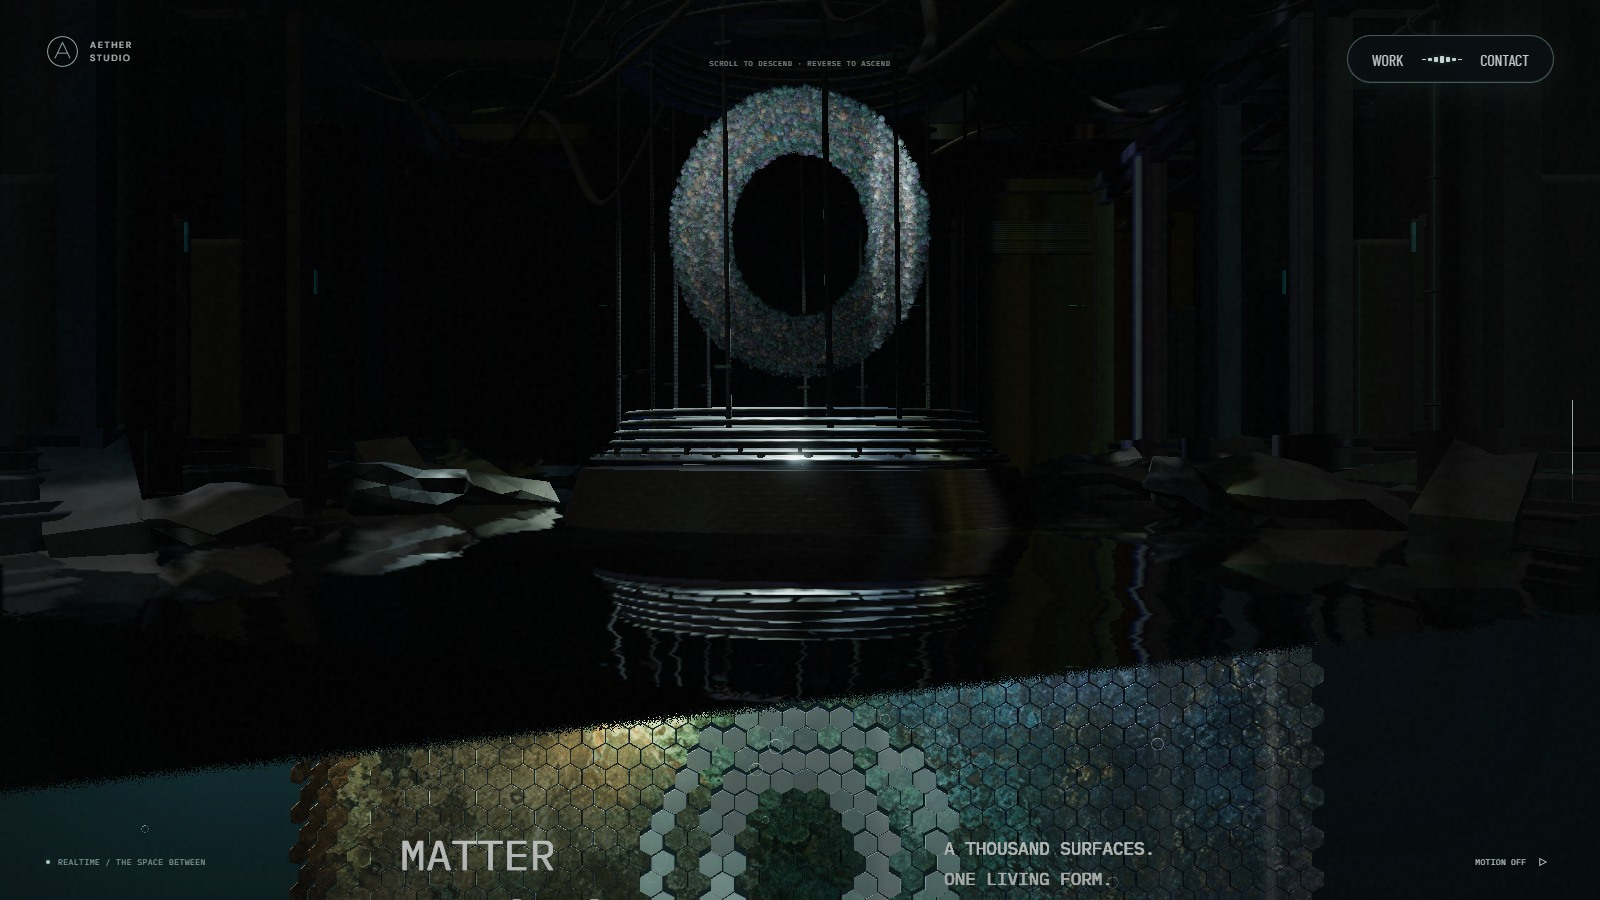
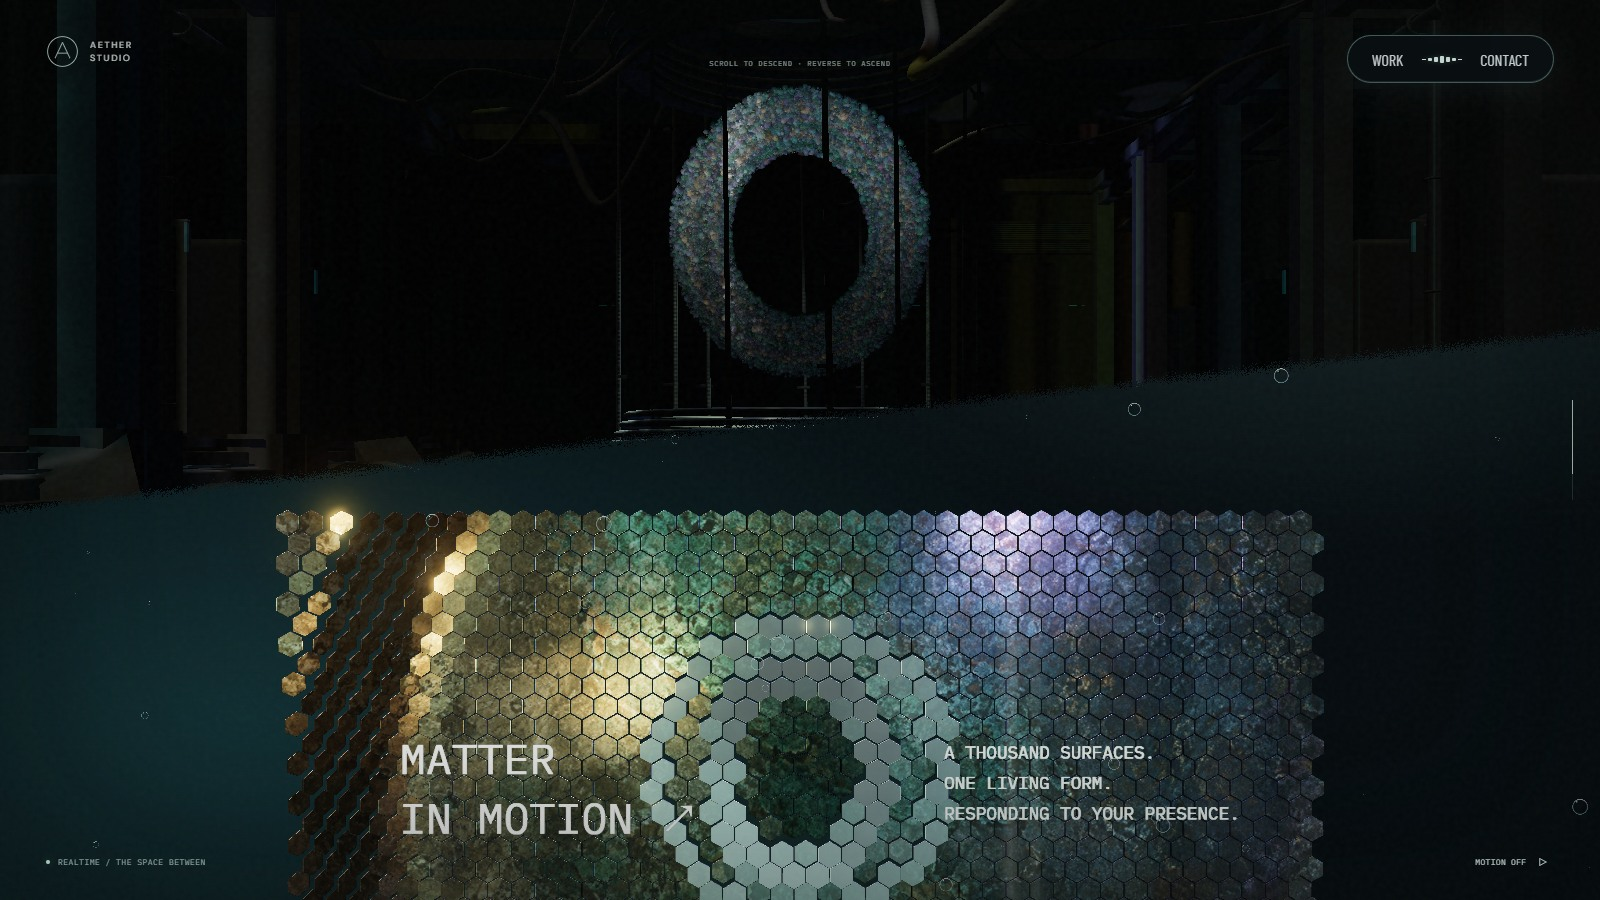
fix: mask the water before the shared surface crossing

diff --git a/src/ScaleStage.ts b/src/ScaleStage.ts
@@ -2,7 +2,7 @@ import { sampleJourney } from './Journey'
 import { REACTOR } from './Reactor'
 
 export const SCALE_CEILING_Y = REACTOR.worldY - 3.7 * REACTOR.heightScale
-export const SCALE_PANEL_Y = SCALE_CEILING_Y - 3.6
+export const SCALE_PANEL_Y = SCALE_CEILING_Y - 2.65
 
 /** A fixed panel and ceiling share the same descending camera. */
 export function sampleScaleOffset(progress: number) {
@@ -11,8 +11,12 @@ export function sampleScaleOffset(progress: number) {
 
 /** Linear camera-height passage, without a second ease at each curtain. */
 export function sampleScaleCurtain(progress: number, lower: boolean) {
-  const start = sampleJourney(lower ? .855 : .715).height
-  const end = sampleJourney(lower ? .925 : .785).height
+  // The water is entirely below the horizontal horizon. Its outgoing band
+  // must cover that half (including the diagonal fringe) before water fades
+  // within 0.30 world units of the eye. The upper room can finish sliding out.
+  if (!lower) return Math.max(-.25, Math.min(1.25, .8 + (SCALE_CEILING_Y - sampleJourney(progress).height) * .4))
+  const start = sampleJourney(.855).height
+  const end = sampleJourney(.925).height
   const travel = Math.max(0, Math.min(1, (sampleJourney(progress).height - start) / (end - start)))
-  return lower ? -.35 + travel * 1.7 : -.25 + travel * 1.5
+  return -.35 + travel * 1.7
 }

diff --git a/tests/scene-boundary-placement.spec.ts b/tests/scene-boundary-placement.spec.ts
@@ -34,14 +34,20 @@ test('@interaction upright curved films clear the actual forest floor and ceilin
   } finally {forest.dispose();shafts.dispose();texture.dispose()}
 })
 
-test('@interaction the outgoing chamber camera stays above water until its entire curtain is closed', () => {
-  const surfaceY=REACTOR.worldY-3.7*REACTOR.heightScale
+test('@interaction the water is fully masked before its camera crossing without stopping the chamber descent', () => {
+  const surfaceY=REACTOR.worldY-3.635*REACTOR.heightScale
   for(let i=0;i<=800;i++) {
     const p=.70+i*.0001,j=sampleJourney(p),layers=sampleLayers(p)
     if(!curtainHasCoverage(layers.monitorExit,layers.deviceExit))continue
     for(const mobile of [false,true]) {
       const cameraY=j.height+Math.sin(j.elevation)*(j.radius+(mobile?4.8:0))
-      expect(cameraY-surfaceY,`water crossing at ${p}`).toBeGreaterThan(.30)
+      if(cameraY-surfaceY<=.30) {
+        // A level camera projects all water below the horizon; include the
+        // full screen width so the slanted edge and its conservative margin
+        // must clear every water pixel before its near-eye fade starts.
+        expect(j.elevation).toBe(0)
+        expect(curtainHasCoverage(layers.monitorExit,layers.deviceExit,0,1,0,.5),`water crossing at ${p}`).toBe(false)
+      }
     }
   }
 })

diff --git a/tests/scene-framing.spec.ts b/tests/scene-framing.spec.ts
@@ -19,10 +19,12 @@ test('@interaction panel approaches the incoming cut and holds its front view un
     expect(y).toBeGreaterThan(lastY); lastY = y
     const upper = new THREE.Vector3(0, j.height + y + 2.65, -.65).project(camera)
     const cut = sampleLayers(p).deviceExit
-    // Once a useful part of the incoming band is visible, its panel is already
-    // within 15% of screen height of that edge, never below a long empty room.
-    if (p >= .739 && p <= .755) expect(cut - (upper.y + 1) / 2).toBeLessThan(.15)
-    if (p >= .795 && p <= .825) expect(Math.abs(y)).toBeLessThan(1.2)
+    // The panel reaches the initial incoming band. Before the water crossing
+    // the wrapper must cover the entire lower half, including its slanted rim;
+    // at that point the panel already fills at least the lower half as well.
+    if (cut > .1 && cut < .55) expect(cut - (upper.y + 1) / 2).toBeLessThan(.15)
+    if (cut >= .55) expect((upper.y + 1) / 2).toBeGreaterThan(.40)
+    if (p >= .785 && p <= .815) expect(Math.abs(y)).toBeLessThan(1.2)
     expect(j.height + y).toBeCloseTo(SCALE_PANEL_Y, 8)
     expect(SCALE_CEILING_Y).toBeCloseTo(-43.212, 8)
   }

diff --git a/tests/project-transition.spec.ts b/tests/project-transition.spec.ts
@@ -3,6 +3,11 @@ import { expect, test } from '@playwright/test'
 
 test('project film pauses for hidden tabs and reduced motion, then returns focus', async ({ page }) => {
   await page.goto('/#work')
+  // This test exercises project media, after the software renderer's first
+  // shader preparation has finished; startup interactions are covered apart.
+  await expect(page.locator('.scene-canvas')).toHaveAttribute('data-render-state', 'ready', {
+    timeout: process.env.CI ? 30_000 : 10_000,
+  })
   const card = page.getByRole('button', { name: 'Explore Liminal', exact: true })
   await card.click()
   const film = page.locator('.detail-film')

diff --git a/tests/interaction.spec.ts b/tests/interaction.spec.ts
@@ -18,7 +18,11 @@ declare global {
 
 async function readyScene(page: Page) {
   await page.goto('/')
-  await expect(page.locator('.scene-canvas')).toHaveAttribute('data-render-state', 'ready')
+  // CI compiles all warm-up shader variants with software WebGL before the
+  // first frame. Give that one-time preparation its own bounded wait.
+  await expect(page.locator('.scene-canvas')).toHaveAttribute('data-render-state', 'ready', {
+    timeout: process.env.CI ? 30_000 : 10_000,
+  })
 }
 
 async function settledScene(page: Page) {

diff --git a/docs/verification/forest-surface-motion.md b/docs/verification/forest-surface-motion.md
@@ -8,7 +8,7 @@
 
 문구의 모든 큰 글자 윤곽에서 왼쪽 아래로 직선 빛을 낸다. 추가 요청에 따라 두 글자 폭으로 조정했던 길이를 다시 2.5배 늘리고 밝기를 낮췄다. 체인은 나선 경로 이동에 접선 축 회전을 더했다. 기존 65ms 본 컬럼 추종 지연과 고리의 교차 결합을 유지한다. AT의 실제 스크롤 화면에서 고리 방향 변화는 확인했지만 내부 회전축·각도를 측정한 것은 아니다. 여기서는 해당 인상을 재현하는 자체 동작으로 구현했다.
 
-스케일 패널과 물결 천장은 고정된 월드 높이를 사용한다. 천장 높이는 리액터 바닥과 같은 `-43.212`이며, 경계선은 카메라 높이에 따라 진행한다. 패널 정면 구간은 100svh, 앞뒤 전환은 각각 119svh로 분리해 전환까지 한 화면에 압축되던 급가속을 없앴다. 리액터 물 반사에서는 다음 장면의 패널과 천장을 제외한다.
+스케일 패널과 물결 천장은 고정된 월드 높이를 사용한다. 천장 높이는 리액터 바닥과 같은 `-43.212`이며, 경계선은 카메라 높이에 따라 진행한다. 카메라가 수면에 가까워지기 전에 경계선이 수면 전체를 가리도록 기준 높이를 맞췄다. 위쪽 리액터 챔버는 계속 화면 밖으로 이동한다. 패널 정면 구간은 100svh, 앞뒤 전환은 각각 119svh로 분리해 전환까지 한 화면에 압축되던 급가속을 없앴다. 리액터 물 반사에서는 다음 장면의 패널과 천장을 제외한다.
 
 본 컬럼의 큰 꽃은 꽃 입자 배분을 40%에서 46%로 늘려 약 15% 더 촘촘하게 했다. 전체 입자 예산은 유지하며 작은 꽃의 배분은 60%에서 54%로 줄였다. 꽃잎의 형태, 높이에 따른 보강·역이동, 모니터 회피 경로는 유지한다.
 
